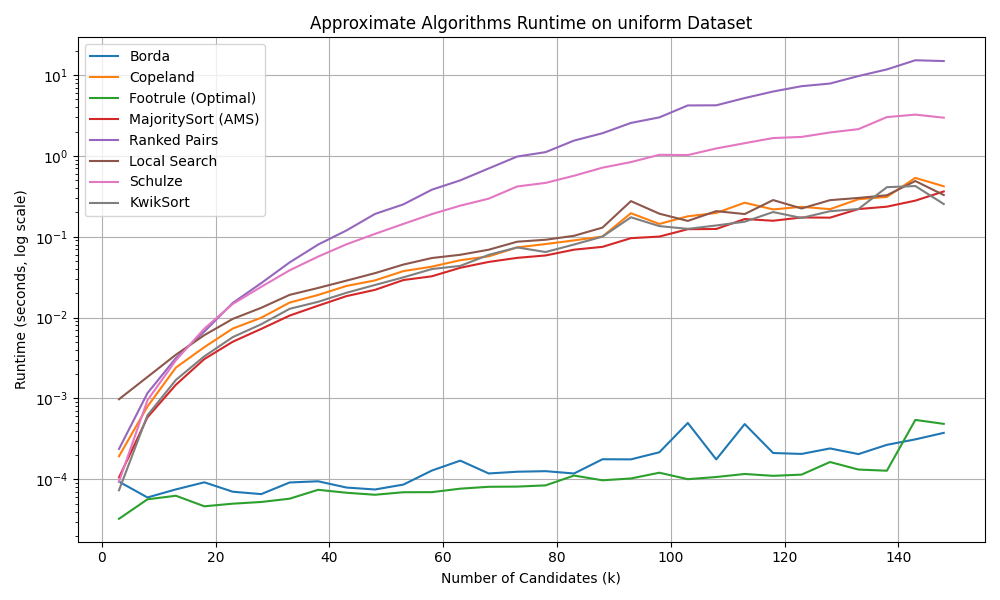
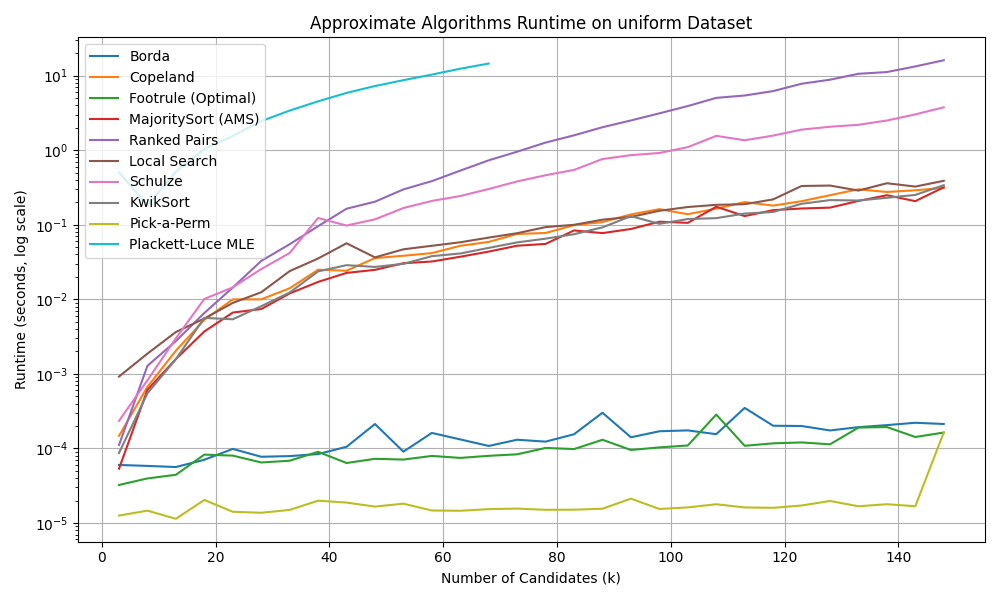
added ploting

diff --git a/approximation_boxplots.py b/approximation_boxplots.py
@@ -1,0 +1,146 @@
+import numpy as np
+import matplotlib.pyplot as plt
+from scipy.stats import kendalltau
+
+# ----- Import algorithms -----
+from algorithms import (
+    kemeny_young_exact,
+    borda,
+    copeland,
+    majority_sort,
+    footrule_optimal,
+    plackett_luce_mle,
+    ranked_pairs,
+    kemeny_local_search,
+    schulze,
+    kwiksort_aggregation,
+    random_ranking
+)
+
+# ----- Import dataset generators -----
+from dataset_generator import (
+    generate_uniform,
+    generate_cycle_heavy,
+    generate_adversarial_bad_case,
+    generate_mallows
+)
+
+from soc_loader import load_soc_strict_orders
+
+# ===========================================
+#   Kendall–Tau correlation coefficient
+# ===========================================
+def kendall_tau_coeff(order1, order2):
+    """Return Kendall–Tau correlation between two rankings."""
+    m = len(order1)
+    pos1 = np.zeros(m, dtype=int)
+    pos2 = np.zeros(m, dtype=int)
+
+    for i, c in enumerate(order1):
+        pos1[c] = i
+    for i, c in enumerate(order2):
+        pos2[c] = i
+
+    tau, _ = kendalltau(pos1, pos2)
+    return tau
+
+
+# ===========================================
+# Select dataset generator
+# ===========================================
+def choose_dataset(name, n_voters, n_cands):
+    path = "/home/sacrifice/kemeny-evaluation/real datasets/00014_sushi/00014-00000001.soc"   # adjust path if needed
+    return load_soc_strict_orders(path)
+    if name == "uniform":
+        return generate_uniform(n_voters, n_cands)
+    elif name == "adversarial":
+        return generate_adversarial_bad_case(n_voters, n_cands, noise=0.2)
+    elif name == "cycle":
+        return generate_cycle_heavy(n_voters, n_cands)
+    elif name == "mallows":
+        return generate_mallows(n_voters, n_cands, phi=0.8)
+    else:
+        raise ValueError("Unknown dataset type")
+
+
+# ===========================================
+# MAIN BOXPLOT SCRIPT
+# ===========================================
+def main():
+
+    DATASET = "mallows"        # <-- choose: uniform / adversarial / cycle / mallows
+    N_VOTERS = 2000
+    N_CANDS = 15               # <-- number of candidates per trial
+    TRIALS = 10                # <-- more trials = smoother boxplots
+
+    print(f"Dataset = {DATASET}, voters = {N_VOTERS}, candidates = {N_CANDS}")
+    print(f"Running {TRIALS} random trials...\n")
+
+    # Algorithms to test
+    algorithms = {
+        "Borda": borda,
+        "Copeland": copeland,
+        "Footrule": footrule_optimal,
+        "MajoritySort": majority_sort,
+        "RankedPairs": ranked_pairs,
+        "Schulze": schulze,
+        "KwikSort": kwiksort_aggregation,
+        "LocalSearch": kemeny_local_search,
+        "Random": random_ranking
+    }
+
+    # skip PL for large n
+    if N_CANDS <= 70:
+        algorithms["PlackettLuce"] = plackett_luce_mle
+
+    # store results
+    results = {name: [] for name in algorithms.keys()}
+
+    # =======================
+    #   Run experiments
+    # =======================
+    for t in range(TRIALS):
+        print(f"Trial {t+1}/{TRIALS}")
+
+        ranks = choose_dataset(DATASET, N_VOTERS, N_CANDS)
+
+        # Exact Kemeny
+        _, kem_order, _ = kemeny_young_exact(ranks)
+
+        # Evaluate each method
+        for name, func in algorithms.items():
+            try:
+                out = func(ranks)
+
+                # some algorithms return tuple
+                if isinstance(out, tuple):
+                    order = out[0]    # (order, params)
+                else:
+                    order = out
+
+                tau = kendall_tau_coeff(order, kem_order)
+                results[name].append(tau)
+            except Exception:
+                results[name].append(np.nan)
+                print(f"{name} failed.")
+
+    # =======================
+    #   Make Boxplot
+    # =======================
+    labels = list(results.keys())
+    data = [results[name] for name in labels]
+
+    plt.figure(figsize=(12, 6))
+    plt.boxplot(data, labels=labels, showfliers=False)
+    plt.ylabel("Kendall-Tau Correlation (τ)")
+    plt.title(f"Approximation Quality Using Kendall-Tau (Dataset: {DATASET})")
+    plt.grid(True, axis='y')
+    plt.ylim(-1, 1)
+
+    plt.tight_layout()
+    plt.savefig("approx_quality_kendall_tau_boxplot.png", dpi=300)
+    print("\nSaved plot as approx_quality_kendall_tau_boxplot.png")
+
+
+if __name__ == "__main__":
+    main()

diff --git a/approx_benchmark_runtime.py b/approx_benchmark_runtime.py
@@ -13,6 +13,7 @@ from algorithms import (
     kemeny_local_search,
     schulze,
     kwiksort_aggregation,
+    random_ranking,
     plackett_luce_mle,    # optional; comment out if choix not installed
 )
 
@@ -84,6 +85,7 @@ def main():
     times_schulze = []
     times_kwiksort = []
     times_pl = []   # optional
+    times_random = []
 
     # -------- BENCHMARK LOOP --------
     for k in candidate_sizes:
@@ -97,10 +99,11 @@ def main():
         tf = time_algorithm(footrule_optimal, ranks, repeats=3)
         tms = time_algorithm(majority_sort, ranks, repeats=3)
 
-        trp = time_algorithm(ranked_pairs, ranks, repeats=3)
+        trp = time_algorithm(ranked_pairs, ranks, repeats=1)
         tls = time_algorithm(kemeny_local_search, ranks, repeats=1)
-        tsch = time_algorithm(schulze, ranks, repeats=3)
+        tsch = time_algorithm(schulze, ranks, repeats=1)
         tkw = time_algorithm(kwiksort_aggregation, ranks, repeats=3)
+        trnd = time_algorithm(random_ranking, ranks, repeats=3)
 
         times_borda.append(tb)
         times_copeland.append(tc)
@@ -110,6 +113,7 @@ def main():
         times_local_search.append(tls)
         times_schulze.append(tsch)
         times_kwiksort.append(tkw)
+        times_random.append(trnd)
 
         print(f"Borda         : {tb:.6f} s")
         print(f"Copeland      : {tc:.6f} s")
@@ -119,15 +123,21 @@ def main():
         print(f"LocalSearch   : {tls:.6f} s")
         print(f"Schulze       : {tsch:.6f} s")
         print(f"KwikSort      : {tkw:.6f} s")
+        print(f"RandomRank   : {trnd:.6f} s")
+
 
         # Optional PL
-        try:
-            tpl = time_algorithm(plackett_luce_mle, ranks, repeats=1)
-            times_pl.append(tpl)
-            print(f"Plackett-Luce : {tpl:.6f} s")
-        except Exception:
+        if k <= 70:
+            try:
+                tpl = time_algorithm(plackett_luce_mle, ranks, repeats=1)
+                times_pl.append(tpl)
+                print(f"Plackett-Luce : {tpl:.6f} s")
+            except Exception:
+                times_pl.append(np.nan)
+                print("Plackett-Luce : FAILED")
+        else:
             times_pl.append(np.nan)
-            print("Plackett-Luce : FAILED")
+            print("Plackett-Luce : SKIPPED (k > 70)")
 
     # -------- PLOT RUNTIMES --------
     plt.figure(figsize=(10, 6))
@@ -140,9 +150,10 @@ def main():
     plt.plot(candidate_sizes, times_local_search, label="Local Search")
     plt.plot(candidate_sizes, times_schulze, label="Schulze")
     plt.plot(candidate_sizes, times_kwiksort, label="KwikSort")
+    plt.plot(candidate_sizes, times_random, label="Pick-a-Perm")
 
-    # if times_pl:
-    #     plt.plot(candidate_sizes, times_pl, label="Plackett-Luce MLE")
+    if times_pl:
+        plt.plot(candidate_sizes, times_pl, label="Plackett-Luce MLE")
 
     plt.xlabel("Number of Candidates (k)")
     plt.ylabel("Runtime (seconds, log scale)")

diff --git a/main.py b/main.py
@@ -11,11 +11,9 @@ from algorithms import (
     schulze,
     kemeny_dp_by_candidates,
     kwiksort_aggregation,
-    kemeny_bruteforce
+    kemeny_bruteforce,
+    random_ranking
 )
-from corankco.algorithms.kwiksort import KwikSortRandom
-from corankco.dataset import Dataset
-from corankco.ranking import Ranking
 
 # ------------------------------------------------
 # Helpers to normalize and pretty-print rankings
@@ -76,6 +74,7 @@ if __name__ == "__main__":
     kemeny_local_search_res  = kemeny_local_search(rankings)
     schulze_res = schulze(rankings)
     kwiksort_res = kwiksort_aggregation(rankings)
+    pick_a_perm_res = random_ranking(rankings)
     try:
         pl_true_order, pl_true_params = plackett_luce_mle(rankings)
         pl_true_order = list(pl_true_order)
@@ -93,8 +92,9 @@ if __name__ == "__main__":
         ("Footrule (optimal)",     list(footrule_res)),
         ("MajoritySort (heuristic)",  list(majority_sort_res)),
         ("Ranked pairs (heuristic)",  list(ranked_pairs_res)),
-        ("Local Search (heuristic)",  list(kemeny_local_search_res[1])),
+        ("Local Search (heuristic)",  list(kemeny_local_search_res)),
         ("schulze",  list(schulze_res)),
+        ("Pick-a-Perm",  list(pick_a_perm_res)),
     ]
 
     if pl_true_order is not None:

diff --git a/benchmark_approx.py b/benchmark_approx.py
@@ -59,9 +59,9 @@ def main():
 
     for n in N_SIZES:
         print(f"\n=== n = {n} candidates, m = {M_VOTERS} voters ===")
-        ranks = generate_adversarial_bad_case(M_VOTERS, n)
-        # path = "/home/sacrifice/kemeny-evaluation/python code/00014_sushi/00014-00000001.soc"   # adjust path if needed
-        # ranks = load_soc_strict_orders(path)
+        # ranks = generate_adversarial_bad_case(M_VOTERS, n)
+        path = "/home/sacrifice/kemeny-evaluation/real datasets/00014_sushi/00014-00000001.soc"   # adjust path if needed
+        ranks = load_soc_strict_orders(path)
 
         # ------ Kemeny exact ------
         t_kem = time_algorithm(kemeny_young_exact, ranks, repeats=REPEATS_SLOW)

diff --git a/algorithms.py b/algorithms.py
@@ -319,7 +319,7 @@ def kemeny_local_search(ranks, max_restarts=20, max_iters_no_improve=2000):
             best_score = current_score
             best_order = order.copy()
 
-    return best_score, best_order
+    return best_order
 
 
 def random_ranking(ranks: np.ndarray):
